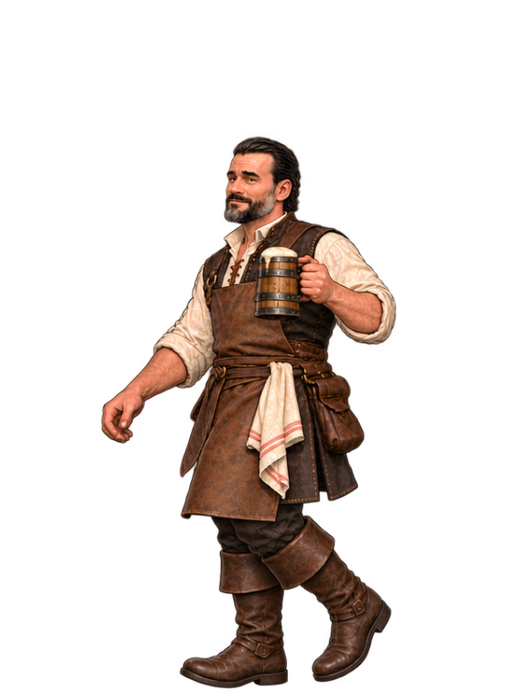
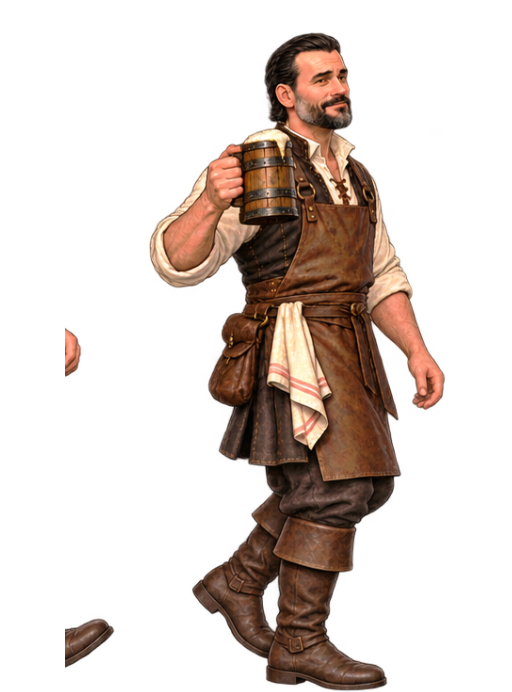
Add files via upload

diff --git a/game.js b/game.js
@@ -104,17 +104,17 @@ const PLAYER={
   moving:false
 };
 const PLAYER_SEQUENCES={
-  front:[1,2,3,2,4],
+  front:[1,2,3,2],
   back:[1,2,3,4],
-  right:[2,4,3,1],
-  left:[2,4,3,1]
+  right:[1,2,3,4],
+  left:[1,2,3,4]
 };
 const keys=new Set();
 let playerLastTime=performance.now();
 
 function playerSpritePath(direction,frame){
   const source=(direction==='left'||direction==='right') ? 'side' : direction;
-  const version=source==='back' ? '' : '?v=08';
+  const version=source==='back' ? '' : '?v=10';
   return `assets/player/${source}-${frame}.png${version}`;
 }
 function showPlayerFrame(force=false){
@@ -123,11 +123,15 @@ function showPlayerFrame(force=false){
   const current=player.getAttribute('src')||'';
   if(force || current!==next) player.setAttribute('src',next);
 
-  // Anhang 2 zeigt den Lauf nach LINKS:
-  // A = Original, D = exakt horizontal gespiegelt.
-  player.style.transform=PLAYER.direction==='right'
-    ? 'translate(-50%,-100%) scaleX(-1)'
-    : 'translate(-50%,-100%)';
+  // NUR W / WA / WD (back) ist 15 % kleiner.
+  // S / SA / SD sowie A / D bleiben bei 100 %.
+  if(PLAYER.direction==='back'){
+    player.style.transform='translate(-50%,-100%) scale(0.85)';
+  }else if(PLAYER.direction==='right'){
+    player.style.transform='translate(-50%,-100%) scaleX(-1)';
+  }else{
+    player.style.transform='translate(-50%,-100%)';
+  }
 }
 function setPlayerDirection(direction){
   if(direction===PLAYER.direction)return;
@@ -237,12 +241,12 @@ function circleBlocked(x,y,r=8){
 window.BurgCollision={pointBlocked,circleBlocked,sprites:collisionSprites};
 
 const PLAYER_FRAME_PATHS = [
-  'assets/player/front-1.png?v=08','assets/player/front-2.png?v=08',
-  'assets/player/front-3.png?v=08','assets/player/front-4.png?v=08',
+  'assets/player/front-1.png?v=10','assets/player/front-2.png?v=10',
+  'assets/player/front-3.png?v=10',
   'assets/player/back-1.png','assets/player/back-2.png',
   'assets/player/back-3.png','assets/player/back-4.png',
-  'assets/player/side-1.png?v=08','assets/player/side-2.png?v=08',
-  'assets/player/side-3.png?v=08','assets/player/side-4.png?v=08'
+  'assets/player/side-1.png?v=10','assets/player/side-2.png?v=10',
+  'assets/player/side-3.png?v=10','assets/player/side-4.png?v=10'
 ];
 async function preloadPlayerFrames(){
   await Promise.all(PLAYER_FRAME_PATHS.map(src=>new Promise(resolve=>{

diff --git a/index.html b/index.html
@@ -22,13 +22,13 @@
       <img class="prop collidable" id="stuhl" src="assets/props/stuhl.png?v=03" alt="" draggable="false" data-collision="alpha">
       <img class="prop collidable" id="tafel" src="assets/props/tafel.png?v=03" alt="" draggable="false" data-collision="alpha">
 
-      <img id="player" src="assets/player/front-1.png?v=08" alt="" draggable="false">
+      <img id="player" src="assets/player/front-1.png?v=10" alt="" draggable="false">
     </div>
 
     <audio id="bgMusic" src="assets/audio/arrival-in-ashford.mp3" preload="auto" loop></audio>
     <div id="loading">DIE BURGSCHENKE WIRD GEÖFFNET …</div>
     <div id="zoomHint" aria-hidden="true">MAUSRAD · 2 ZOOMSTUFEN</div>
   </main>
-  <script src="game.js?v=08"></script>
+  <script src="game.js?v=10"></script>
 </body>
 </html>
